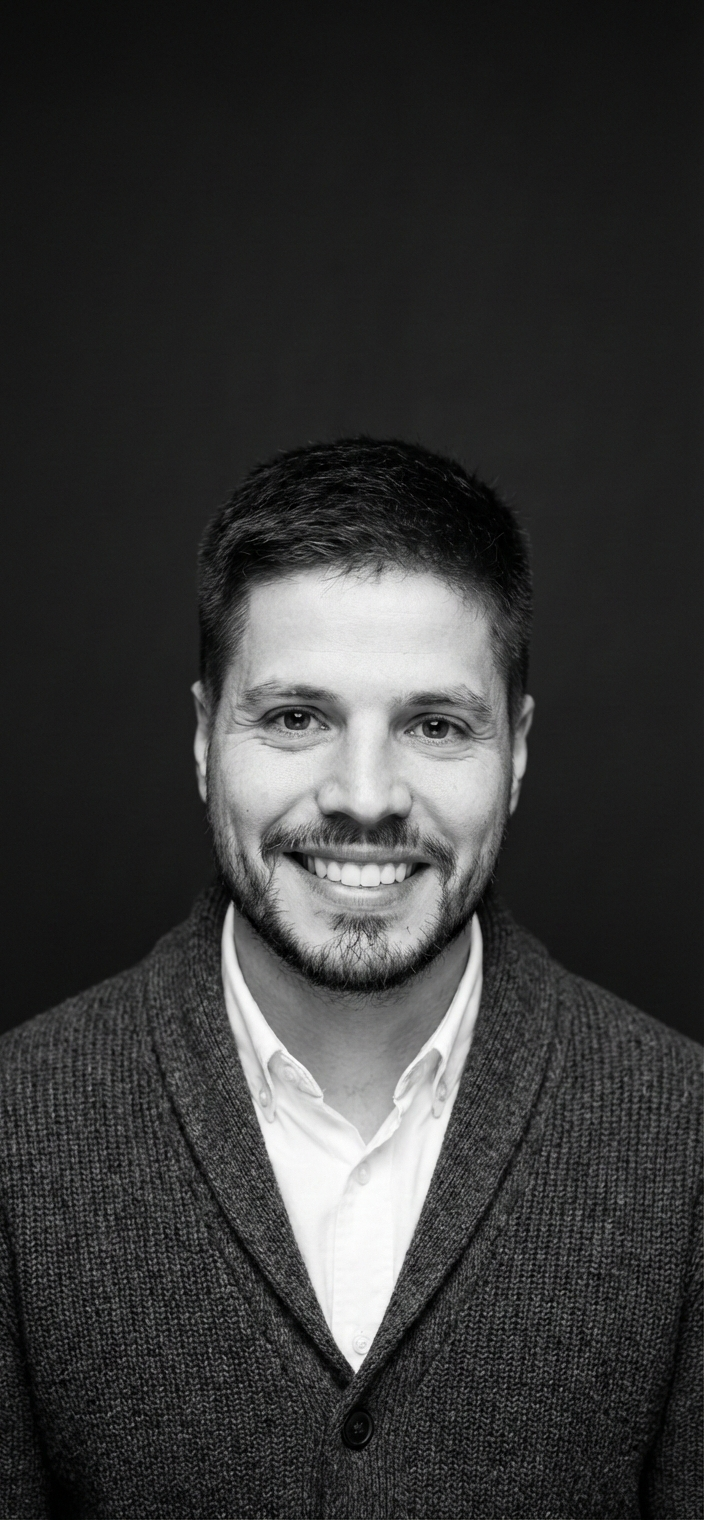
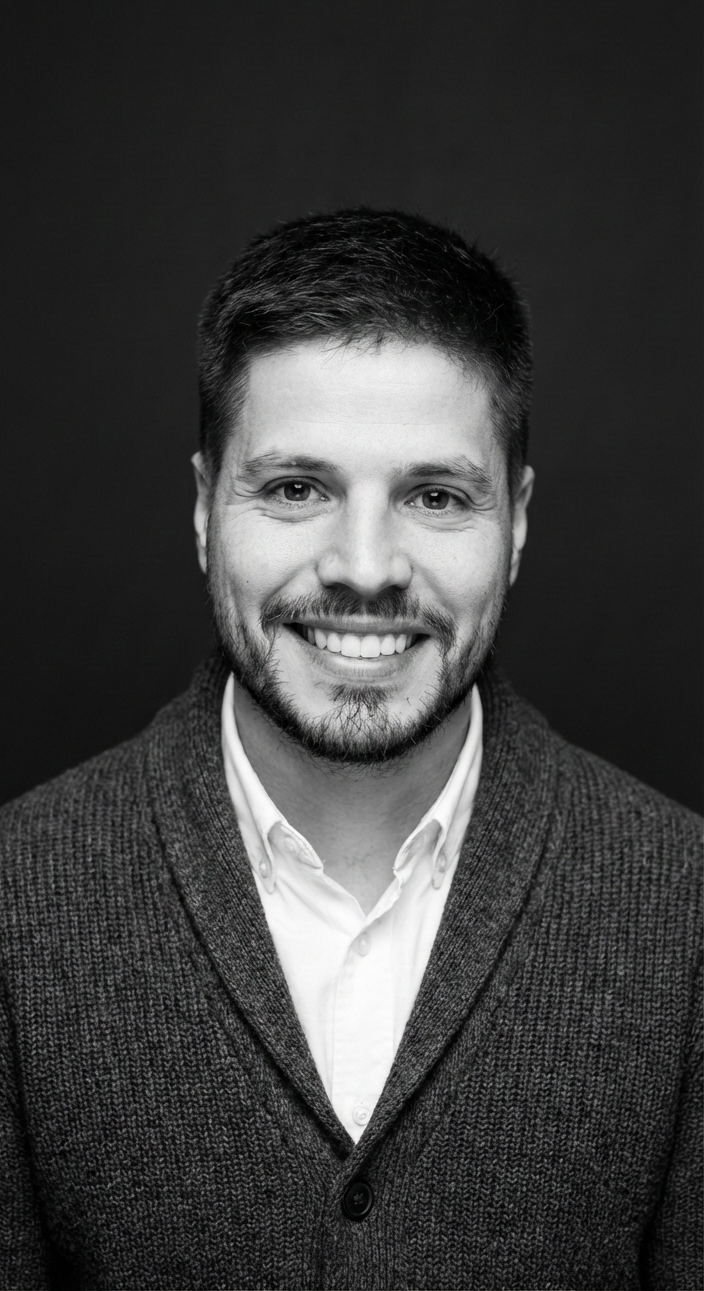
Update headshot to new photo, adjust hero frame ratio
New headshot is 704x1291 (ratio ~1:1.83). Frame updated from
300x648px to 300x550px to match new dimensions exactly,
preventing any cropping.

diff --git a/src/components/sections/Hero.tsx b/src/components/sections/Hero.tsx
@@ -84,10 +84,10 @@ export function Hero() {
             {/* Corner accent — bottom-right */}
             <div className="absolute -bottom-3 -right-3 w-8 h-8 border-b-2 border-r-2 border-accent z-10" />
 
-            {/* Photo container — sized to portrait ratio of the headshot (704×1520 → ~1:2.16) */}
+            {/* Photo container — sized to portrait ratio of the headshot (704×1291 → ~1:1.83) */}
             <div
               className="relative overflow-hidden rounded-sm bg-surface-2 border border-border"
-              style={{ width: "300px", height: "648px" }}
+              style={{ width: "300px", height: "550px" }}
             >
               <Image
                 src="/images/headshot.png"
